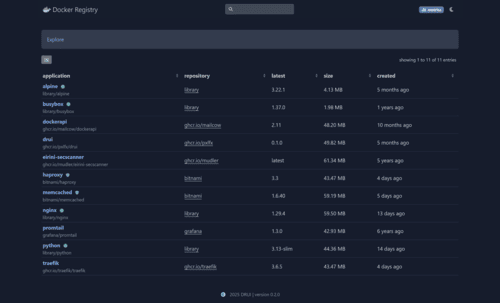
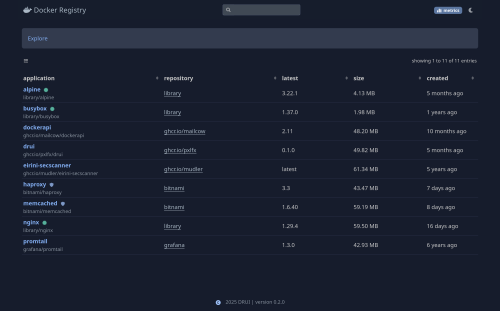
drui 0.2.0
- added download Docker image as tar file (#1)
- added metrics collection system (#2)
- added token authentication support (#3)
- added copying tag details to clipboard on mobile devices
- added Python-3.14 support
- updated JavaScript libraries (fontawesome, bootstrap, table.js)
- fixed image page rendering error when repository list is empty
- fixed implement for registry catalog to bypass 100 items limit

diff --git a/drui/__init__.py b/drui/__init__.py
@@ -1,1 +1,1 @@
-__version__ = '0.2.0-dev'
+__version__ = '0.2.0'

diff --git a/CHANGELOG.md b/CHANGELOG.md
@@ -5,6 +5,24 @@ All notable changes to this project will be documented in this file.
 The format is based on [Keep a Changelog].
 This project adheres to [Semantic Versioning].
 
+## [0.2.0] - 2025-12-25
+
+### Added
+
+- added download Docker image as tar file (#1)
+- added metrics collection system (#2)
+- added token authentication support (#3)
+- added copying tag details to clipboard on mobile devices
+- added Python-3.14 support
+
+### Changed
+
+- updated JavaScript libraries (fontawesome, bootstrap, table.js)
+
+### Fixed
+
+- fixed image page rendering error when repository list is empty
+- fixed implement for registry catalog to bypass 100 items limit
 
 ## [0.1.0] - 2025-08-01
 
@@ -35,4 +53,5 @@ This project adheres to [Semantic Versioning].
 [semantic versioning]: https://semver.org/spec/v2.0.0.html
 
 <!-- Versions -->
+[0.2.0]: https://github.com/pxlfx/drui/releases/tag/0.2.0
 [0.1.0]: https://github.com/pxlfx/drui/releases/tag/0.1.0

diff --git a/docs/quickstart.md b/docs/quickstart.md
@@ -65,7 +65,7 @@ version: '3.4'
 
 services:
   drui:
-    image: ghcr.io/pxlfx/drui:0.1.0
+    image: ghcr.io/pxlfx/drui:0.2.0
     container_name: drui
     restart: always
     environment:
